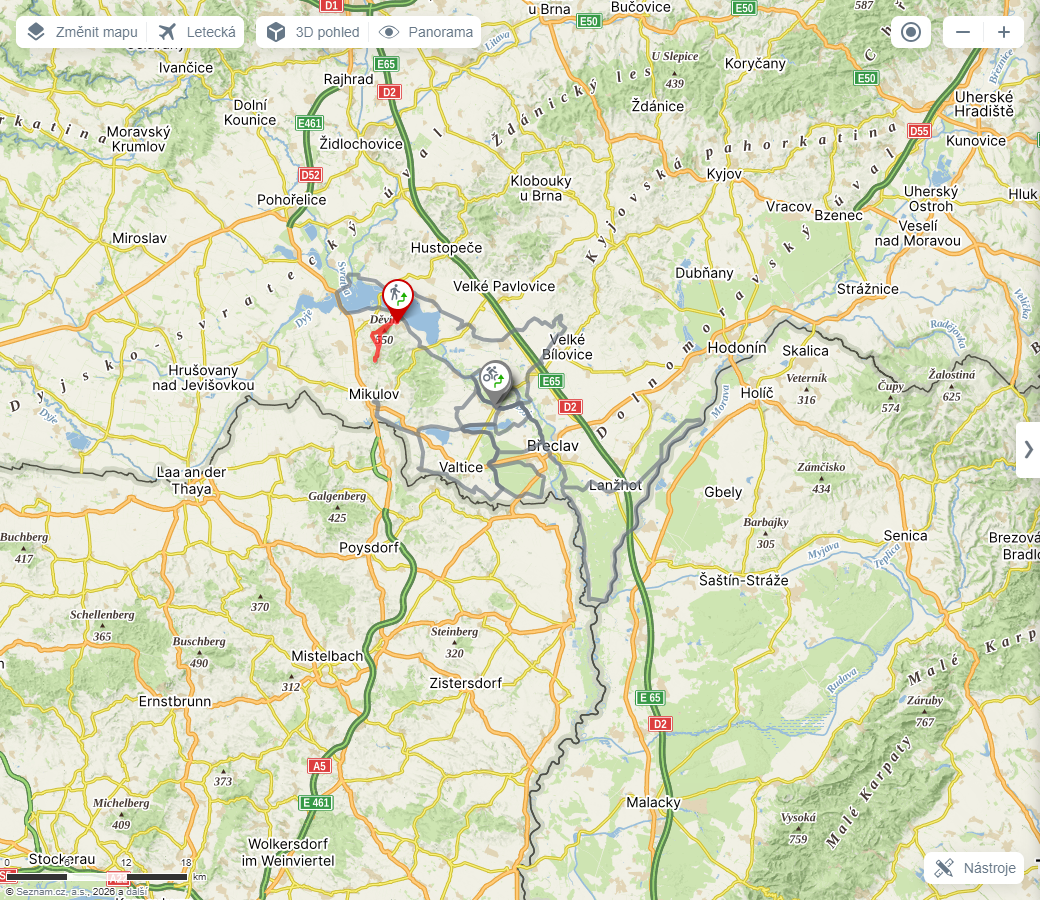
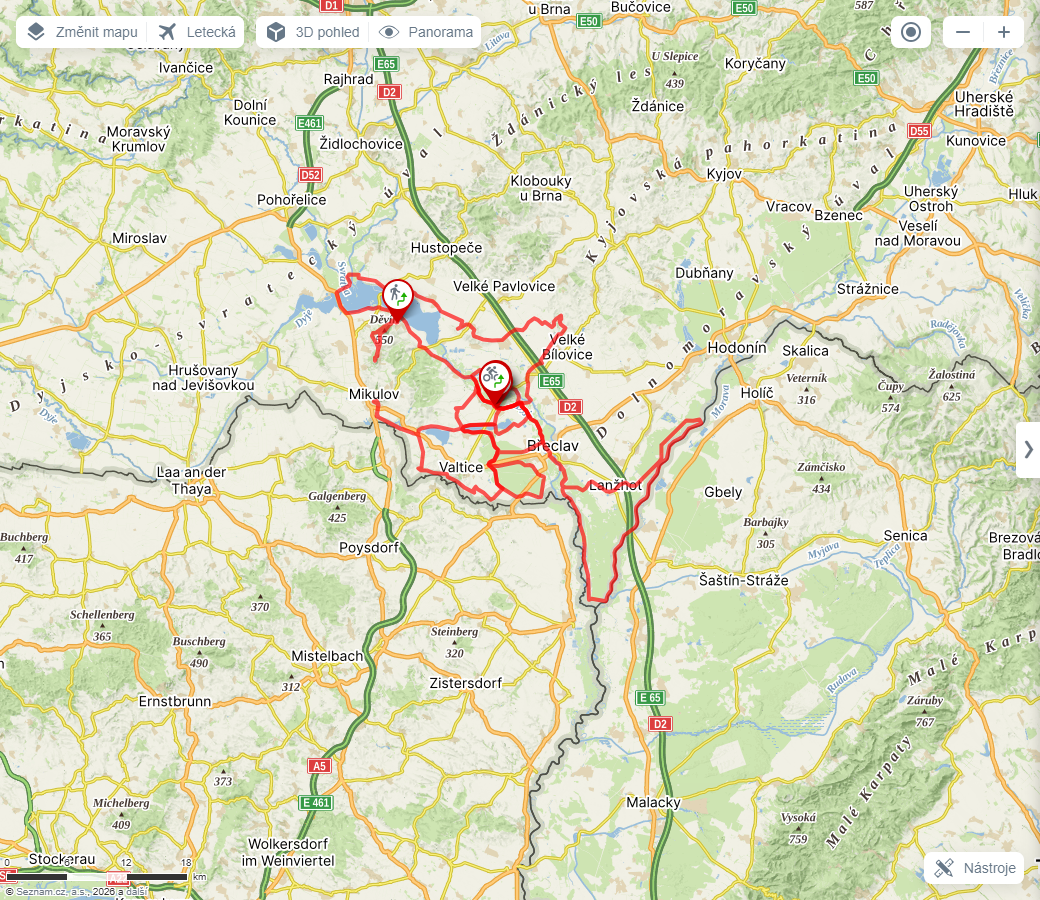
improvements

diff --git a/data.js b/data.js
@@ -2379,7 +2379,7 @@ const DATA = {
           "elevation_img": "images/hajorezugu_elev.png"
         }
       ],
-      "screenshot": "images/lednice.png"
+      "screenshot": "images/dutadudubo.png"
     },
     {
       "name": "Bike-Ostravice",